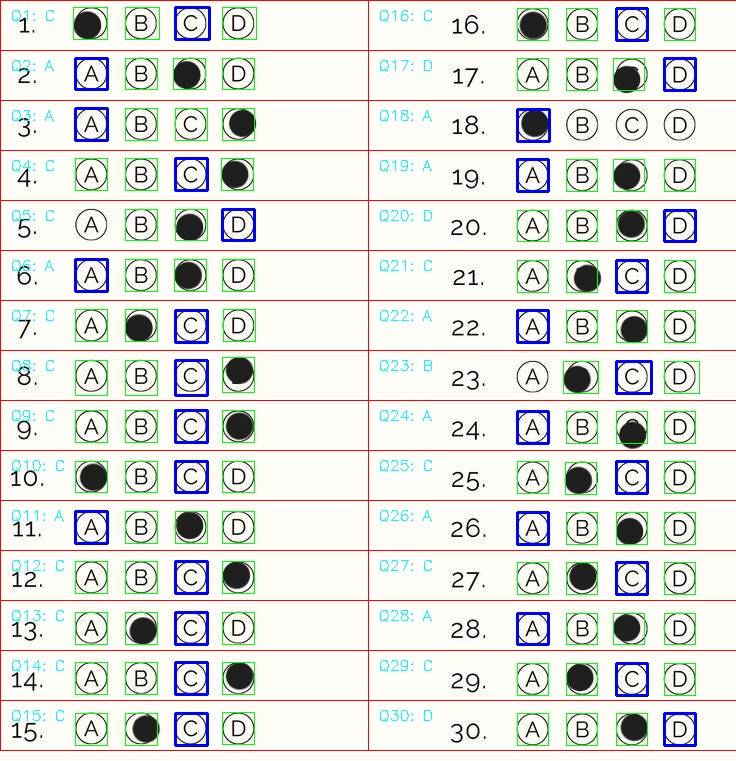
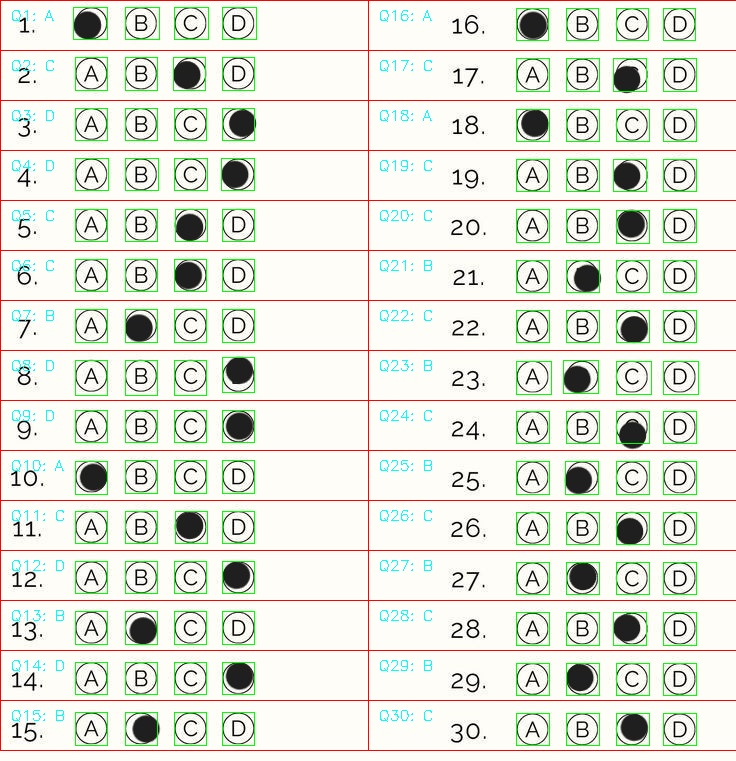
most accurate detection

diff --git a/process_image.py b/process_image.py
@@ -1,5 +1,6 @@
 import cv2 
 import pytesseract
+import numpy as np
 pytesseract.pytesseract.tesseract_cmd = r"C:\Program Files\Tesseract-OCR\tesseract.exe"
 
 # To read image 
@@ -44,15 +45,14 @@ for i, (x, y, w, h) in enumerate(zones):
     question_img = answer_section[y:y+h, x:x+w]
     question_gray = cv2.cvtColor(question_img, cv2.COLOR_BGR2GRAY)
     
-    # Threshold to prepare for contour detection
-    _, thresh = cv2.threshold(question_gray, 0, 255, cv2.THRESH_BINARY_INV + cv2.THRESH_OTSU)
+    # Adaptive threshold for better handling of lighting
+    thresh = cv2.adaptiveThreshold(question_gray, 255, cv2.ADAPTIVE_THRESH_GAUSSIAN_C,
+                                cv2.THRESH_BINARY_INV, 11, 2)
 
     # Detect contours in the question zone
     contours, _ = cv2.findContours(thresh, cv2.RETR_EXTERNAL, cv2.CHAIN_APPROX_SIMPLE)
 
     bubble_info = []
-
-    import pytesseract
 
     for cnt in contours:
         area = cv2.contourArea(cnt)
@@ -60,51 +60,37 @@ for i, (x, y, w, h) in enumerate(zones):
             x_b, y_b, w_b, h_b = cv2.boundingRect(cnt)
             bubble_img = question_gray[y_b:y_b+h_b, x_b:x_b+w_b]
 
-            # OCR to read character inside the bubble
-            config = "--psm 10 -c tessedit_char_whitelist=ABCD"  # single char
-            letter = pytesseract.image_to_string(bubble_img, config=config).strip()
+            # Count number of black pixels inside the bubble
+            mask = cv2.drawContours(np.zeros_like(thresh), [cnt], -1, 255, -1)
+            filled_pixels = cv2.countNonZero(cv2.bitwise_and(thresh, thresh, mask=mask))
+            filled_ratio = filled_pixels / area
 
-            print(f"OCR result: '{letter}'")
-
-            if letter == "":
-                # If OCR didn't detect a letter → assume it’s marked
-                marked = True
-            else:
-                marked = False
-
-            bubble_info.append((x_b, y_b, marked, cnt))
+            # If filled ratio is higher than threshold, it's marked
+            marked = filled_ratio > 0.4  # You can tune this threshold
+            bubble_info.append((x_b, y_b, filled_ratio, cnt))
 
 
-    # Sort bubbles by x-position (left to right → A, B, C, D)
-    bubble_info.sort(key=lambda b: b[0])
+    # Sort bubbles by x-position (assuming left to right is A, B, C, D)
+    bubble_info.sort(key=lambda b: b[0])  # x_b position
 
-    # if bubble_info:
-    #     darkest = min(bubble_info, key=lambda b: b[2])
-    #     selected_index = bubble_info.index(darkest)
-    #     selected_option = chr(65 + selected_index)  # A, B, C, D
-    #     answers.append(selected_option)
-    # else:
-    #     answers.append("Unmarked")  # or "X", "-", etc.
+    # Threshold to decide if marked
+    marked_threshold = 0.4
+    marked_bubbles = [(i, b) for i, b in enumerate(bubble_info) if b[2] > marked_threshold]
 
-    # Filter only marked bubbles
-    marked_bubbles = [b for b in bubble_info if b[2] is True]
-
-    if marked_bubbles:
-        # If only one marked → select it
-        selected_index = bubble_info.index(marked_bubbles[0])
-        selected_option = chr(65 + selected_index)
-        answers.append(selected_option)
+    if len(marked_bubbles) == 1:
+        selected_option = chr(65 + marked_bubbles[0][0])
+    elif len(marked_bubbles) > 1:
+        # If multiple marked, pick the one with highest fill ratio
+        best = max(marked_bubbles, key=lambda b: b[1][2])
+        selected_option = chr(65 + best[0])
     else:
-        answers.append("Unmarked")
+        selected_option = "Unmarked"
 
+    answers.append(selected_option)
 
     # Draw all detected bubbles in green
     for bx, by, _, cnt in bubble_info:
         cv2.rectangle(answer_section, (x + bx, y + by), (x + bx + w_b, y + by + h_b), (0, 255, 0), 1)
-
-    # # Highlight selected bubble in blue
-    # bx, by, _, cnt = darkest
-    # cv2.rectangle(answer_section, (x + bx, y + by), (x + bx + w_b, y + by + h_b), (255, 0, 0), 2)
 
     # Write selected option A/B/C/D
     cv2.putText(answer_section, f"Q{i+1}: {selected_option}", (x + 10, y + 20), cv2.FONT_HERSHEY_SIMPLEX, 0.5, (255,255,0), 1)
@@ -112,4 +98,4 @@ for i, (x, y, w, h) in enumerate(zones):
 cv2.imshow("Contours on Answer Section", answer_section)
 cv2.waitKey(0)
 cv2.destroyAllWindows()
-# cv2.imwrite('test.jpg', answer_section)
+cv2.imwrite('test.jpg', answer_section)
